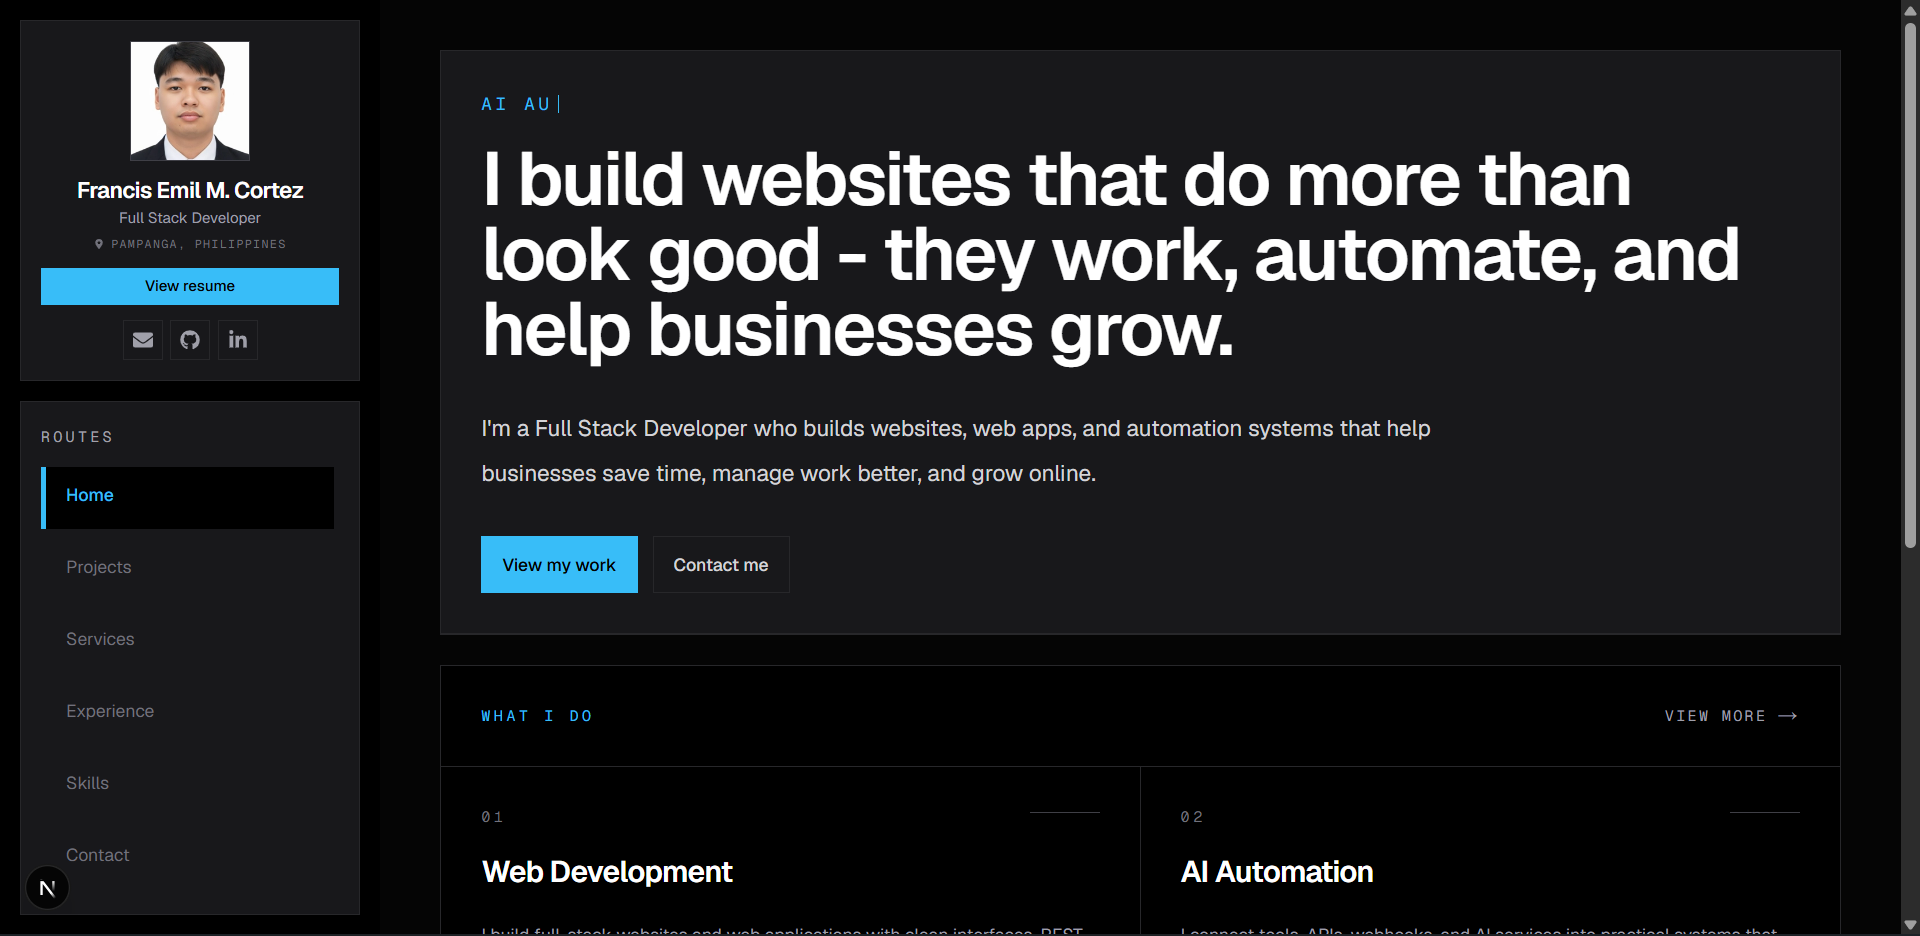
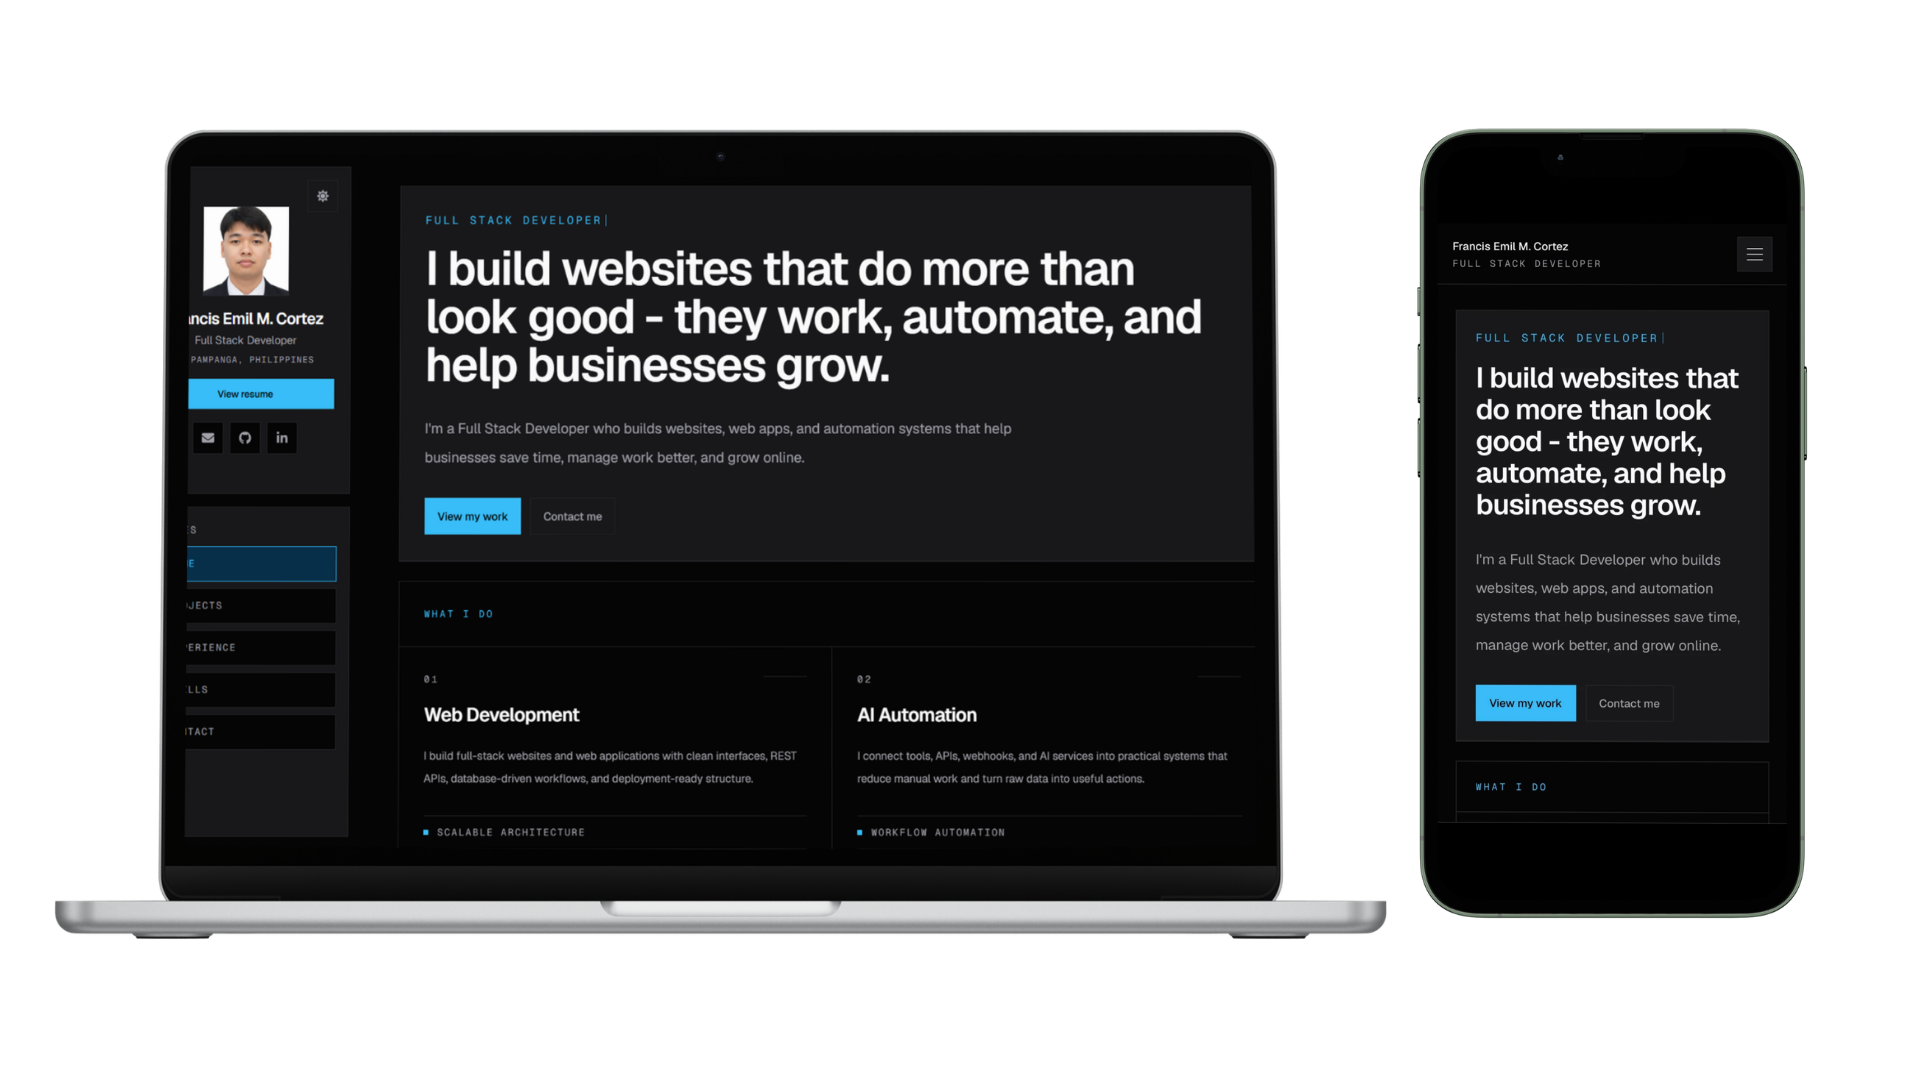
refactor: changed the image and enhance the code for it

diff --git a/src/components/sections/projects/project-detail.tsx b/src/components/sections/projects/project-detail.tsx
@@ -85,7 +85,7 @@ export function ProjectDetail({ project }: ProjectDetailProps) {
       {/* Image */}
       {project.images.length > 0 && (
         <div className="border-b border-border">
-          {project.images.map((img) => (
+          {project.images.map((img, index) => (
             <figure key={img.src} className="flex flex-col">
               <button
                 type="button"
@@ -98,7 +98,11 @@ export function ProjectDetail({ project }: ProjectDetailProps) {
                   alt={img.alt}
                   fill
                   className="object-contain transition-opacity hover:opacity-90"
-                  sizes="(max-width: 1024px) 100vw, 55vw"
+                  sizes="(min-width: 1024px) 80vw, 100vw"
+                  loading={index === 0 ? "eager" : "lazy"}
+                  fetchPriority={index === 0 ? "high" : "auto"}
+                  quality={100}
+                  unoptimized
                 />
               </button>
             </figure>
@@ -211,6 +215,8 @@ export function ProjectDetail({ project }: ProjectDetailProps) {
               className="object-contain"
               sizes="90vw"
               priority
+              quality={100}
+              unoptimized
             />
           </div>
 
